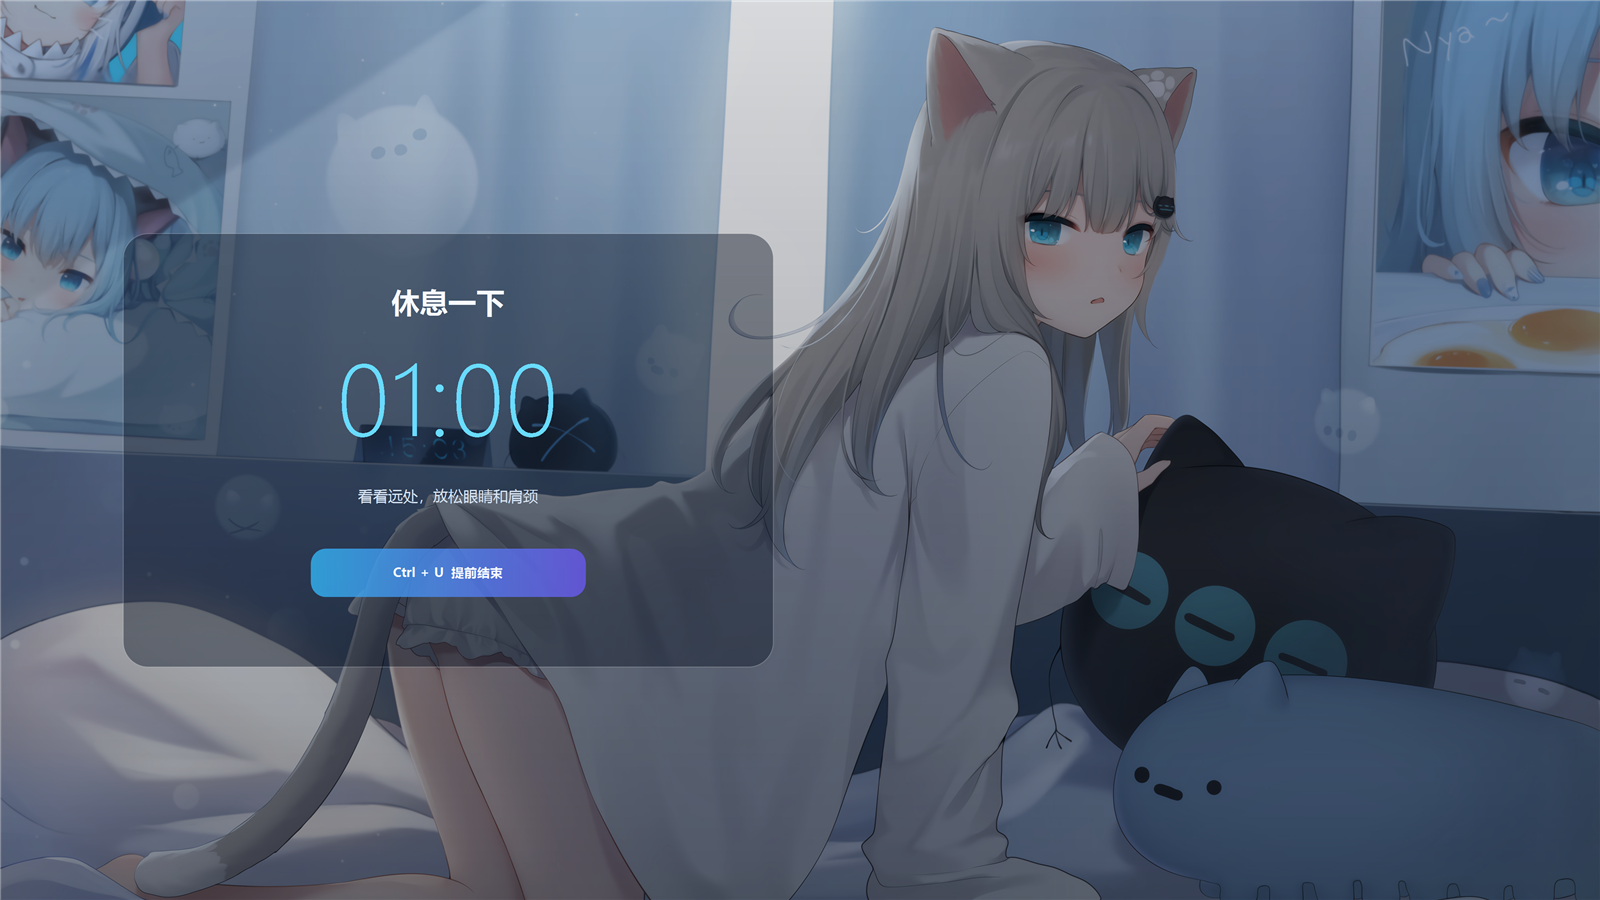
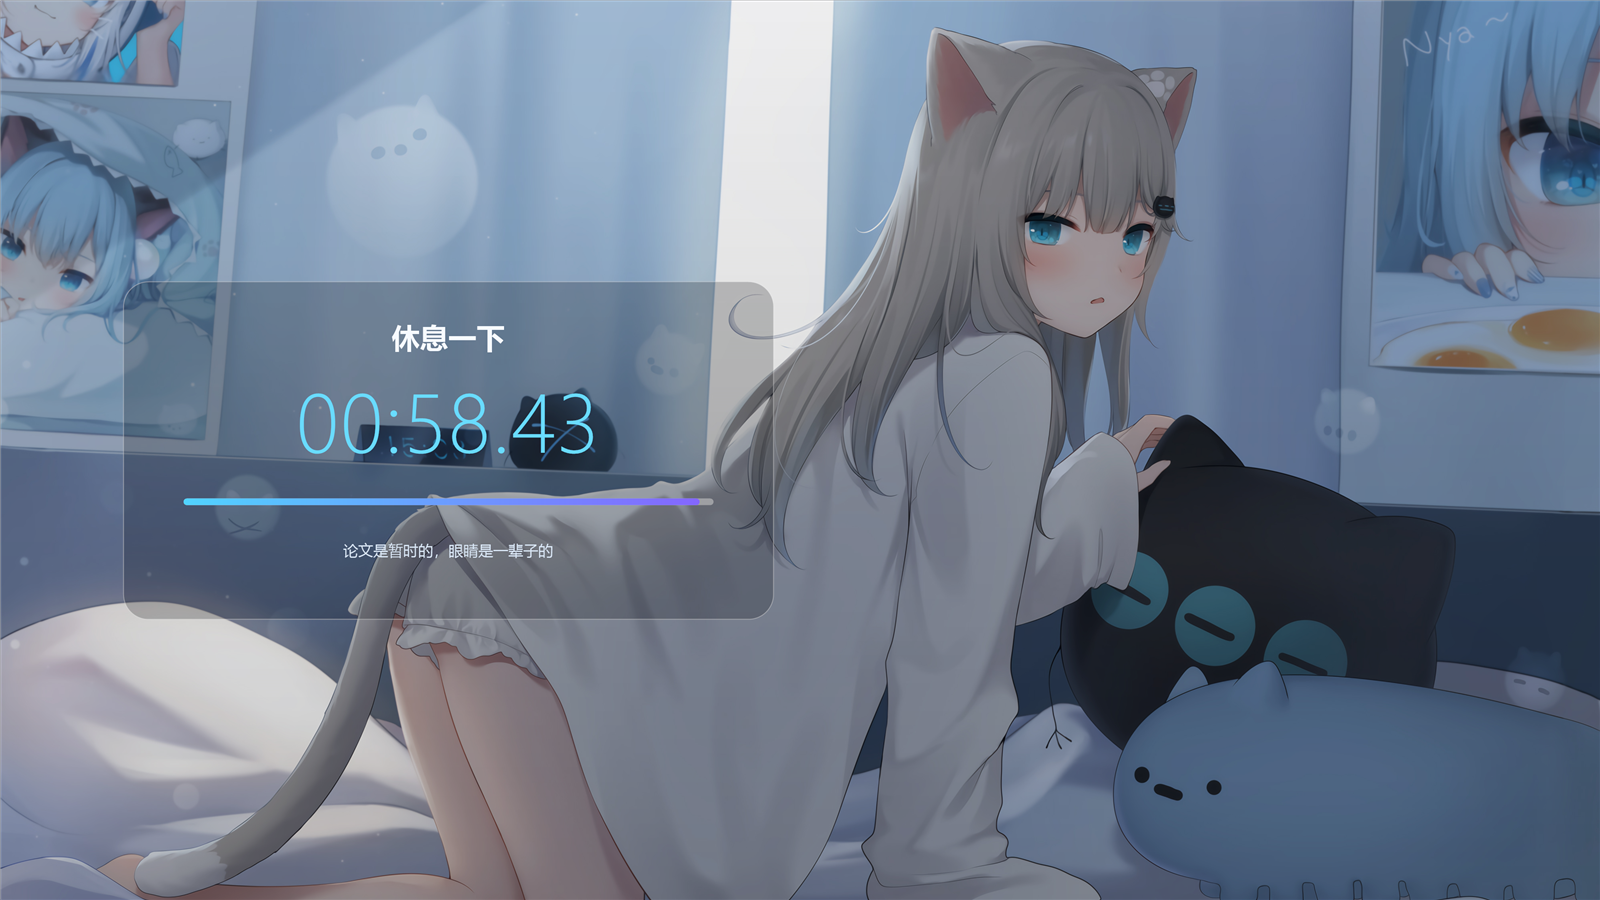
Improve countdown rendering and remove exit hint

diff --git a/BreakReminder.cs b/BreakReminder.cs
@@ -2,6 +2,7 @@ using System;
 using System.Collections.Generic;
 using System.Drawing;
 using System.Drawing.Drawing2D;
+using System.Drawing.Text;
 using System.IO;
 using System.Reflection;
 using System.Runtime.InteropServices;
@@ -12,8 +13,8 @@ using System.Windows.Forms;
 [assembly: AssemblyDescription("A multi-monitor full-screen break reminder")]
 [assembly: AssemblyCompany("Local")]
 [assembly: AssemblyProduct("Take Rest")]
-[assembly: AssemblyVersion("2.0.0.0")]
-[assembly: AssemblyFileVersion("2.0.0.0")]
+[assembly: AssemblyVersion("2.1.0.0")]
+[assembly: AssemblyFileVersion("2.1.0.0")]
 
 namespace BreakReminder
 {
@@ -340,10 +341,13 @@ namespace BreakReminder
 
     internal sealed class BreakOverlayForm : Form
     {
+        private const double BreakDurationMilliseconds = 60D * 1000D;
         private readonly Rectangle screenBounds;
         private readonly Image backgroundImage;
         private readonly Action exitRequested;
-        private string countdownText = "01:00";
+        private string countdownText = "01:00.00";
+        private double remainingProgress = 1D;
+        private Bitmap renderedBackground;
         private bool allowClose;
 
         public BreakOverlayForm(Screen screen, Image background, Action onExitRequested)
@@ -373,6 +377,10 @@ namespace BreakReminder
 
             KeyDown += OverlayKeyDown;
             FormClosing += OverlayFormClosing;
+            if (renderedBackground == null)
+            {
+                RebuildBackgroundCache();
+            }
         }
 
         protected override CreateParams CreateParams
@@ -384,6 +392,23 @@ namespace BreakReminder
                 parameters.ExStyle |= ToolWindow;
                 return parameters;
             }
+        }
+
+        protected override void OnResize(EventArgs e)
+        {
+            base.OnResize(e);
+            RebuildBackgroundCache();
+        }
+
+        protected override void Dispose(bool disposing)
+        {
+            if (disposing && renderedBackground != null)
+            {
+                renderedBackground.Dispose();
+                renderedBackground = null;
+            }
+
+            base.Dispose(disposing);
         }
 
         protected override bool ProcessCmdKey(ref Message message, Keys keyData)
@@ -400,18 +425,16 @@ namespace BreakReminder
         protected override void OnPaintBackground(PaintEventArgs e)
         {
             e.Graphics.SmoothingMode = SmoothingMode.AntiAlias;
-            e.Graphics.InterpolationMode = InterpolationMode.HighQualityBicubic;
-            e.Graphics.PixelOffsetMode = PixelOffsetMode.HighQuality;
+            e.Graphics.CompositingQuality = CompositingQuality.HighQuality;
+            e.Graphics.TextRenderingHint = TextRenderingHint.AntiAliasGridFit;
 
-            DrawBackground(e.Graphics);
-
-            using (LinearGradientBrush shade = new LinearGradientBrush(
-                ClientRectangle,
-                Color.FromArgb(38, 3, 11, 24),
-                Color.FromArgb(115, 3, 10, 23),
-                LinearGradientMode.Vertical))
+            if (renderedBackground != null)
             {
-                e.Graphics.FillRectangle(shade, ClientRectangle);
+                e.Graphics.DrawImageUnscaled(renderedBackground, 0, 0);
+            }
+            else
+            {
+                DrawBackground(e.Graphics);
             }
 
             DrawBreakContent(e.Graphics);
@@ -426,21 +449,59 @@ namespace BreakReminder
             BringToFront();
         }
 
-        public void UpdateCountdown(string value)
+        public void UpdateCountdown(TimeSpan remaining)
         {
-            if (countdownText == value)
-            {
-                return;
-            }
-
-            countdownText = value;
-            Invalidate();
+            double milliseconds = Math.Max(0D, remaining.TotalMilliseconds);
+            long totalCentiseconds = (long)Math.Ceiling(milliseconds / 10D);
+            long minutes = totalCentiseconds / 6000L;
+            long seconds = (totalCentiseconds / 100L) % 60L;
+            long hundredths = totalCentiseconds % 100L;
+            countdownText = String.Format("{0:00}:{1:00}.{2:00}", minutes, seconds, hundredths);
+            remainingProgress = Math.Max(0D, Math.Min(1D, milliseconds / BreakDurationMilliseconds));
+            Invalidate(GetContentBounds());
         }
 
         public void CloseOverlay()
         {
             allowClose = true;
             Close();
+        }
+
+        private void RebuildBackgroundCache()
+        {
+            if (ClientSize.Width <= 0 || ClientSize.Height <= 0)
+            {
+                return;
+            }
+
+            Bitmap next = new Bitmap(
+                ClientSize.Width,
+                ClientSize.Height,
+                System.Drawing.Imaging.PixelFormat.Format32bppPArgb);
+            using (Graphics graphics = Graphics.FromImage(next))
+            {
+                graphics.CompositingQuality = CompositingQuality.HighQuality;
+                graphics.InterpolationMode = InterpolationMode.HighQualityBicubic;
+                graphics.PixelOffsetMode = PixelOffsetMode.HighQuality;
+                graphics.SmoothingMode = SmoothingMode.HighQuality;
+                DrawBackground(graphics);
+
+                using (LinearGradientBrush shade = new LinearGradientBrush(
+                    ClientRectangle,
+                    Color.FromArgb(35, 3, 11, 24),
+                    Color.FromArgb(100, 3, 10, 23),
+                    LinearGradientMode.Vertical))
+                {
+                    graphics.FillRectangle(shade, ClientRectangle);
+                }
+            }
+
+            Bitmap previous = renderedBackground;
+            renderedBackground = next;
+            if (previous != null)
+            {
+                previous.Dispose();
+            }
         }
 
         private void DrawBackground(Graphics graphics)
@@ -485,7 +546,7 @@ namespace BreakReminder
                 Math.Min((float)ClientSize.Width / 1920F, (float)ClientSize.Height / 1080F));
 
             float panelWidth = Math.Min(ClientSize.Width * 0.46F, 780F * scale);
-            float panelHeight = Math.Min(ClientSize.Height * 0.70F, 520F * scale);
+            float panelHeight = Math.Min(ClientSize.Height * 0.66F, 405F * scale);
             float panelCenterX = ClientSize.Width * 0.28F;
             float panelCenterY = ClientSize.Height * 0.50F;
             RectangleF panel = new RectangleF(
@@ -504,9 +565,8 @@ namespace BreakReminder
 
             using (StringFormat center = new StringFormat())
             using (Font titleFont = new Font("Microsoft YaHei UI", 34F * scale, FontStyle.Bold, GraphicsUnit.Pixel))
-            using (Font timerFont = new Font("Segoe UI Light", 122F * scale, FontStyle.Regular, GraphicsUnit.Pixel))
+            using (Font timerFont = new Font("Segoe UI Light", 100F * scale, FontStyle.Regular, GraphicsUnit.Pixel))
             using (Font hintFont = new Font("Microsoft YaHei UI", 18F * scale, FontStyle.Regular, GraphicsUnit.Pixel))
-            using (Font hotkeyFont = new Font("Microsoft YaHei UI", 15F * scale, FontStyle.Bold, GraphicsUnit.Pixel))
             using (SolidBrush primaryText = new SolidBrush(Color.FromArgb(246, 250, 255)))
             using (SolidBrush timerText = new SolidBrush(Color.FromArgb(105, 219, 255)))
             using (SolidBrush secondaryText = new SolidBrush(Color.FromArgb(216, 229, 244)))
@@ -516,41 +576,78 @@ namespace BreakReminder
 
                 RectangleF titleBounds = new RectangleF(
                     panel.X,
-                    panel.Y + (55F * scale),
+                    panel.Y + (40F * scale),
                     panel.Width,
                     58F * scale);
                 graphics.DrawString("休息一下", titleFont, primaryText, titleBounds, center);
 
                 RectangleF timerBounds = new RectangleF(
                     panel.X,
-                    panel.Y + (125F * scale),
+                    panel.Y + (105F * scale),
                     panel.Width,
-                    150F * scale);
+                    130F * scale);
                 graphics.DrawString(countdownText, timerFont, timerText, timerBounds, center);
+
+                float progressHeight = Math.Max(8F, 8F * scale);
+                RectangleF progressTrack = new RectangleF(
+                    panel.X + (72F * scale),
+                    panel.Y + (260F * scale),
+                    panel.Width - (144F * scale),
+                    progressHeight);
+                using (GraphicsPath trackPath = MakeRoundedRectangle(progressTrack, progressHeight / 2F))
+                using (SolidBrush trackFill = new SolidBrush(Color.FromArgb(62, 255, 255, 255)))
+                {
+                    graphics.FillPath(trackFill, trackPath);
+                }
+
+                if (remainingProgress > 0D)
+                {
+                    float progressWidth = Math.Max(
+                        progressHeight,
+                        progressTrack.Width * (float)remainingProgress);
+                    RectangleF progressFillBounds = new RectangleF(
+                        progressTrack.X,
+                        progressTrack.Y,
+                        Math.Min(progressTrack.Width, progressWidth),
+                        progressHeight);
+                    using (GraphicsPath progressPath = MakeRoundedRectangle(
+                        progressFillBounds,
+                        progressHeight / 2F))
+                    using (LinearGradientBrush progressFill = new LinearGradientBrush(
+                        progressFillBounds,
+                        Color.FromArgb(81, 211, 255),
+                        Color.FromArgb(132, 102, 255),
+                        0F))
+                    {
+                        graphics.FillPath(progressFill, progressPath);
+                    }
+                }
 
                 RectangleF hintBounds = new RectangleF(
                     panel.X,
-                    panel.Y + (292F * scale),
+                    panel.Y + (300F * scale),
                     panel.Width,
                     48F * scale);
-                graphics.DrawString("看看远处，放松眼睛和肩颈", hintFont, secondaryText, hintBounds, center);
-
-                RectangleF hotkeyBounds = new RectangleF(
-                    panelCenterX - (165F * scale),
-                    panel.Y + (378F * scale),
-                    330F * scale,
-                    58F * scale);
-                using (GraphicsPath hotkeyPath = MakeRoundedRectangle(hotkeyBounds, 18F * scale))
-                using (LinearGradientBrush hotkeyFill = new LinearGradientBrush(
-                    hotkeyBounds,
-                    Color.FromArgb(210, 50, 177, 239),
-                    Color.FromArgb(210, 105, 88, 235),
-                    0F))
-                {
-                    graphics.FillPath(hotkeyFill, hotkeyPath);
-                }
-                graphics.DrawString("Ctrl + U  提前结束", hotkeyFont, primaryText, hotkeyBounds, center);
+                graphics.DrawString("论文是暂时的，眼睛是一辈子的", hintFont, secondaryText, hintBounds, center);
             }
+        }
+
+        private Rectangle GetContentBounds()
+        {
+            float scale = Math.Max(
+                0.72F,
+                Math.Min((float)ClientSize.Width / 1920F, (float)ClientSize.Height / 1080F));
+            float panelWidth = Math.Min(ClientSize.Width * 0.46F, 780F * scale);
+            float panelHeight = Math.Min(ClientSize.Height * 0.66F, 405F * scale);
+            float panelCenterX = ClientSize.Width * 0.28F;
+            float panelCenterY = ClientSize.Height * 0.50F;
+            Rectangle bounds = Rectangle.Ceiling(new RectangleF(
+                panelCenterX - (panelWidth / 2F),
+                panelCenterY - (panelHeight / 2F),
+                panelWidth,
+                panelHeight));
+            bounds.Inflate((int)Math.Ceiling(3F * scale), (int)Math.Ceiling(3F * scale));
+            return bounds;
         }
 
         private void OverlayKeyDown(object sender, KeyEventArgs e)
@@ -891,11 +988,9 @@ namespace BreakReminder
                     return;
                 }
 
-                int seconds = Math.Max(0, (int)Math.Ceiling(remaining.TotalSeconds));
-                string countdown = String.Format("{0:00}:{1:00}", seconds / 60, seconds % 60);
                 foreach (BreakOverlayForm overlay in breakOverlays)
                 {
-                    overlay.UpdateCountdown(countdown);
+                    overlay.UpdateCountdown(remaining);
                 }
                 return;
             }
@@ -1049,6 +1144,7 @@ namespace BreakReminder
             floatingBounds = Bounds;
             isBreakActive = true;
             breakEndsAt = DateTime.Now.AddSeconds(BreakSeconds);
+            timer.Interval = 16;
             Hide();
             notifyIcon.Visible = false;
 
@@ -1072,6 +1168,7 @@ namespace BreakReminder
                     screen,
                     breakBackground,
                     RequestBreakExit);
+                overlay.UpdateCountdown(TimeSpan.FromSeconds(BreakSeconds));
                 breakOverlays.Add(overlay);
                 overlay.ShowOverlay();
             }
@@ -1103,6 +1200,7 @@ namespace BreakReminder
             }
 
             isBreakActive = false;
+            timer.Interval = 200;
             floatingPanel.Visible = true;
             floatingPanel.BringToFront();
             BackColor = Color.FromArgb(23, 29, 41);

diff --git a/README.md b/README.md
@@ -17,13 +17,15 @@
 - 每轮随机专注 15–20 分钟，避免机械固定的提醒节奏。
 - 检测所有显示器，并在每块屏幕上创建独立、同步的全屏休息界面。
 - 全屏休息倒计时持续 1 分钟，结束后自动关闭全部覆盖层并开始下一轮。
+- 倒计时以约 60 FPS 刷新，显示百分秒并提供平滑进度条。
+- 背景按每块显示器的原生分辨率预先高质量缩放，兼顾清晰度和动画流畅度。
 - 全屏背景使用内嵌图片，复制单个 `BreakReminder.exe` 即可运行。
 - 悬浮窗置顶、可自由拖动，并显示剩余时间与本轮进度。
 - 点击“立即休息”可随时开始 1 分钟全屏倒计时。
 - 点击右上角最小化按钮可隐藏到系统托盘，后台计时不会中断。
 - 双击托盘图标恢复悬浮窗；右键可立即休息、重新计时或退出。
 - 休息期间隐藏托盘入口，并屏蔽 `Esc`、`Alt+F4`、关闭窗口和程序退出命令。
-- 休息期间唯一的手动提前结束方式是 `Ctrl+U`。
+- 休息界面不显示退出提示；唯一的手动提前结束方式是 `Ctrl+U`。
 - 支持高 DPI 和不同分辨率、不同排列方式的多显示器。
 - 单实例运行，不会重复启动多个提醒窗口。
 